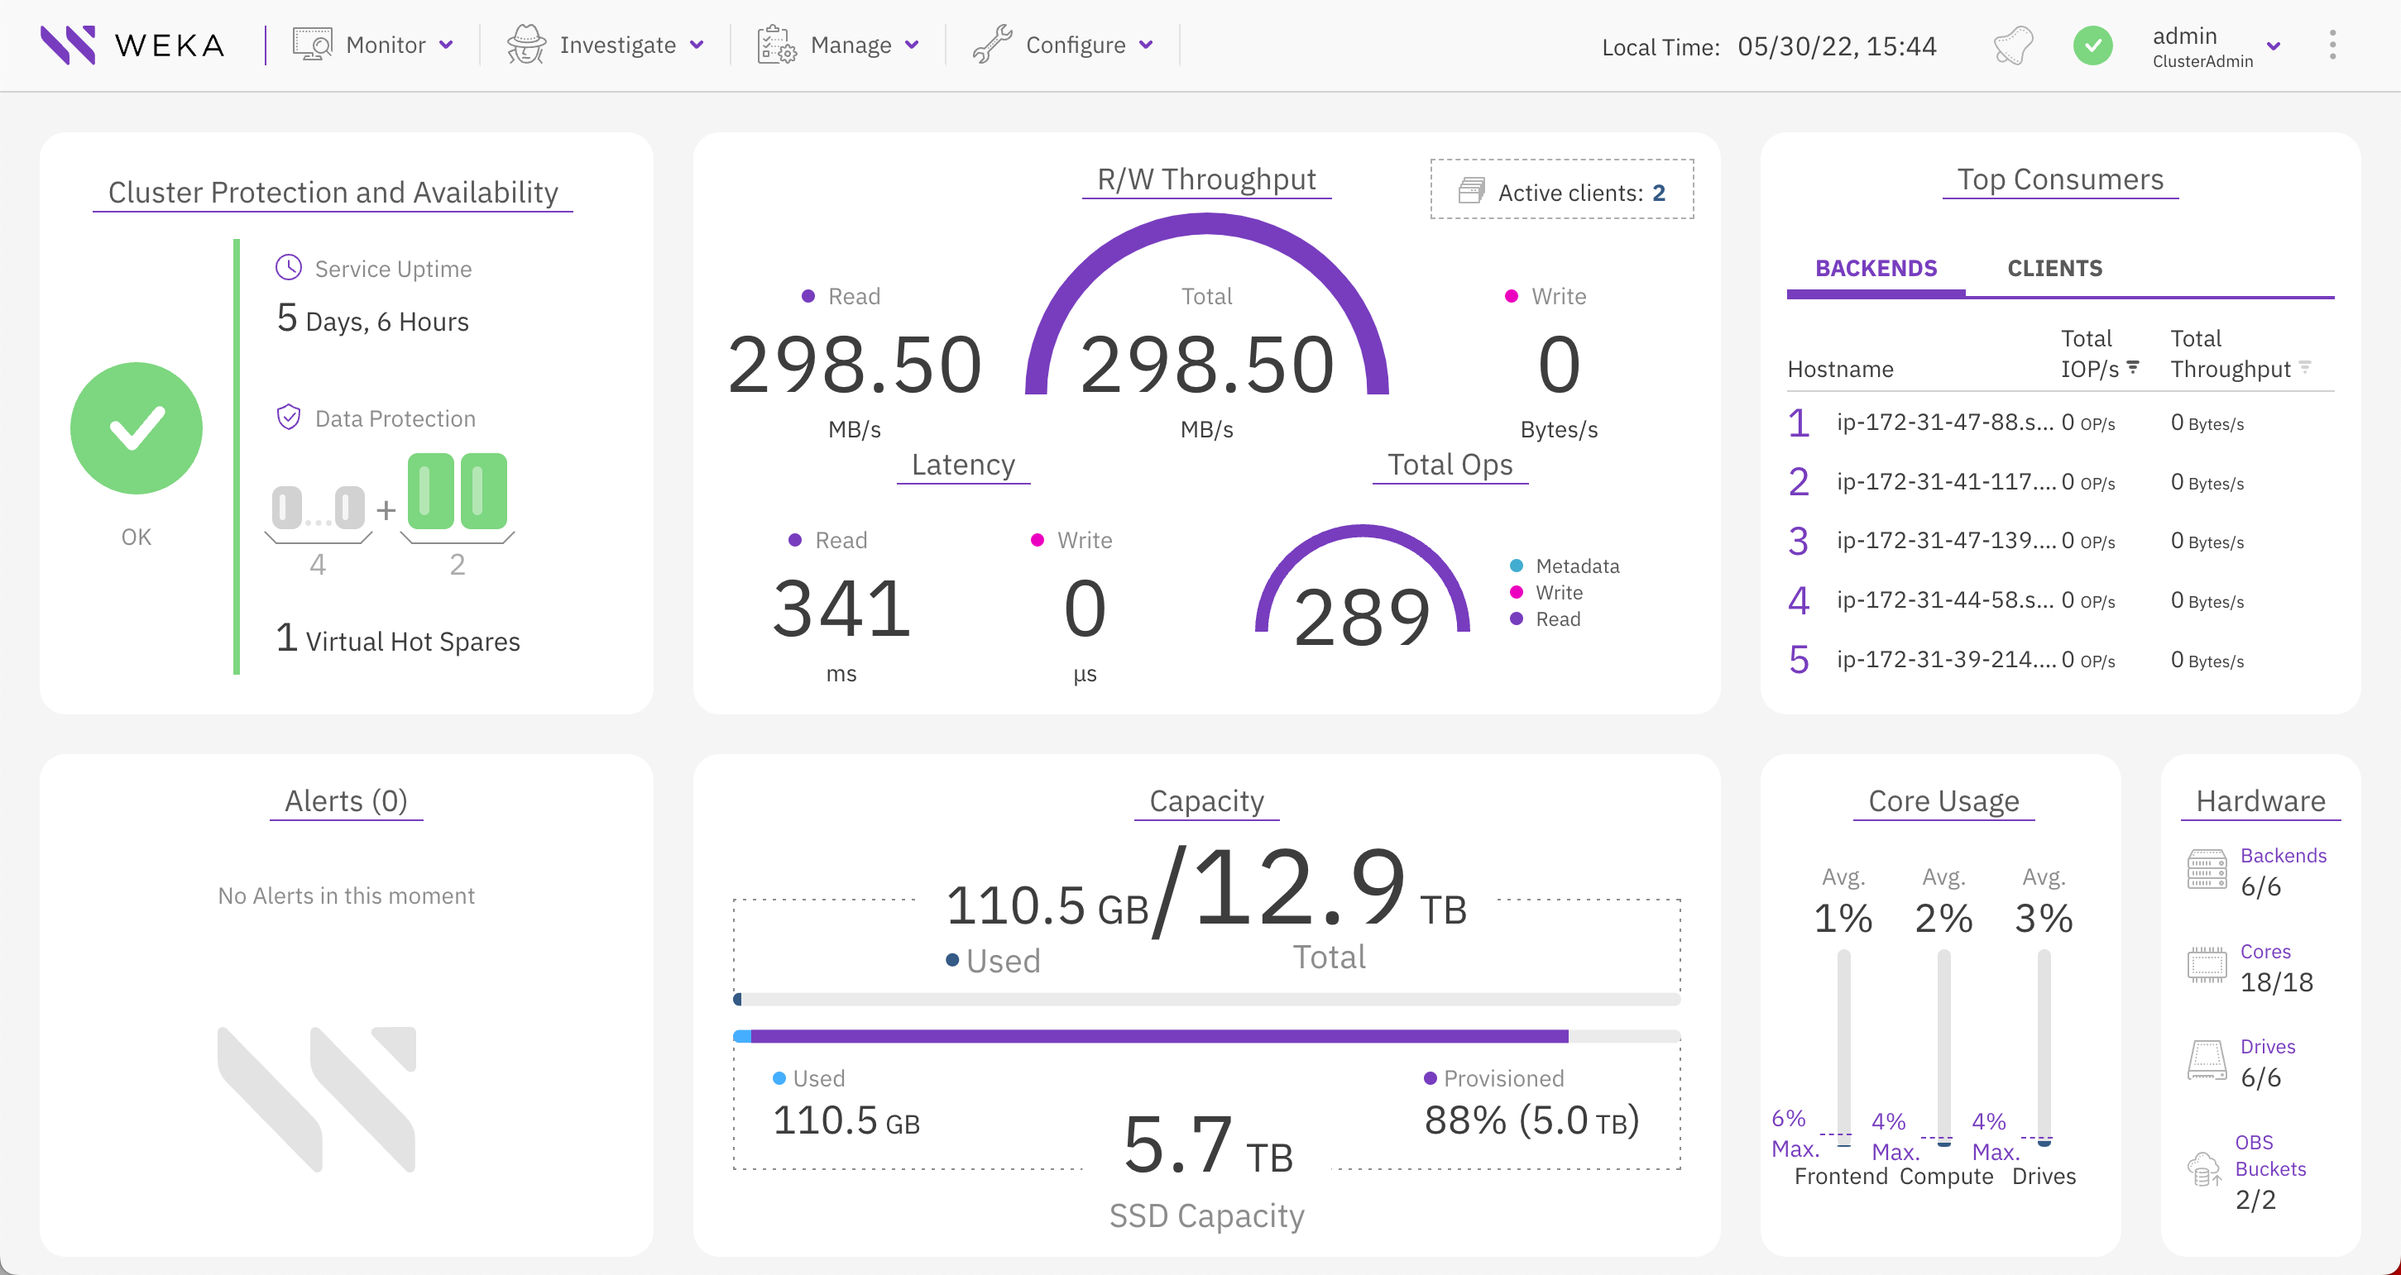
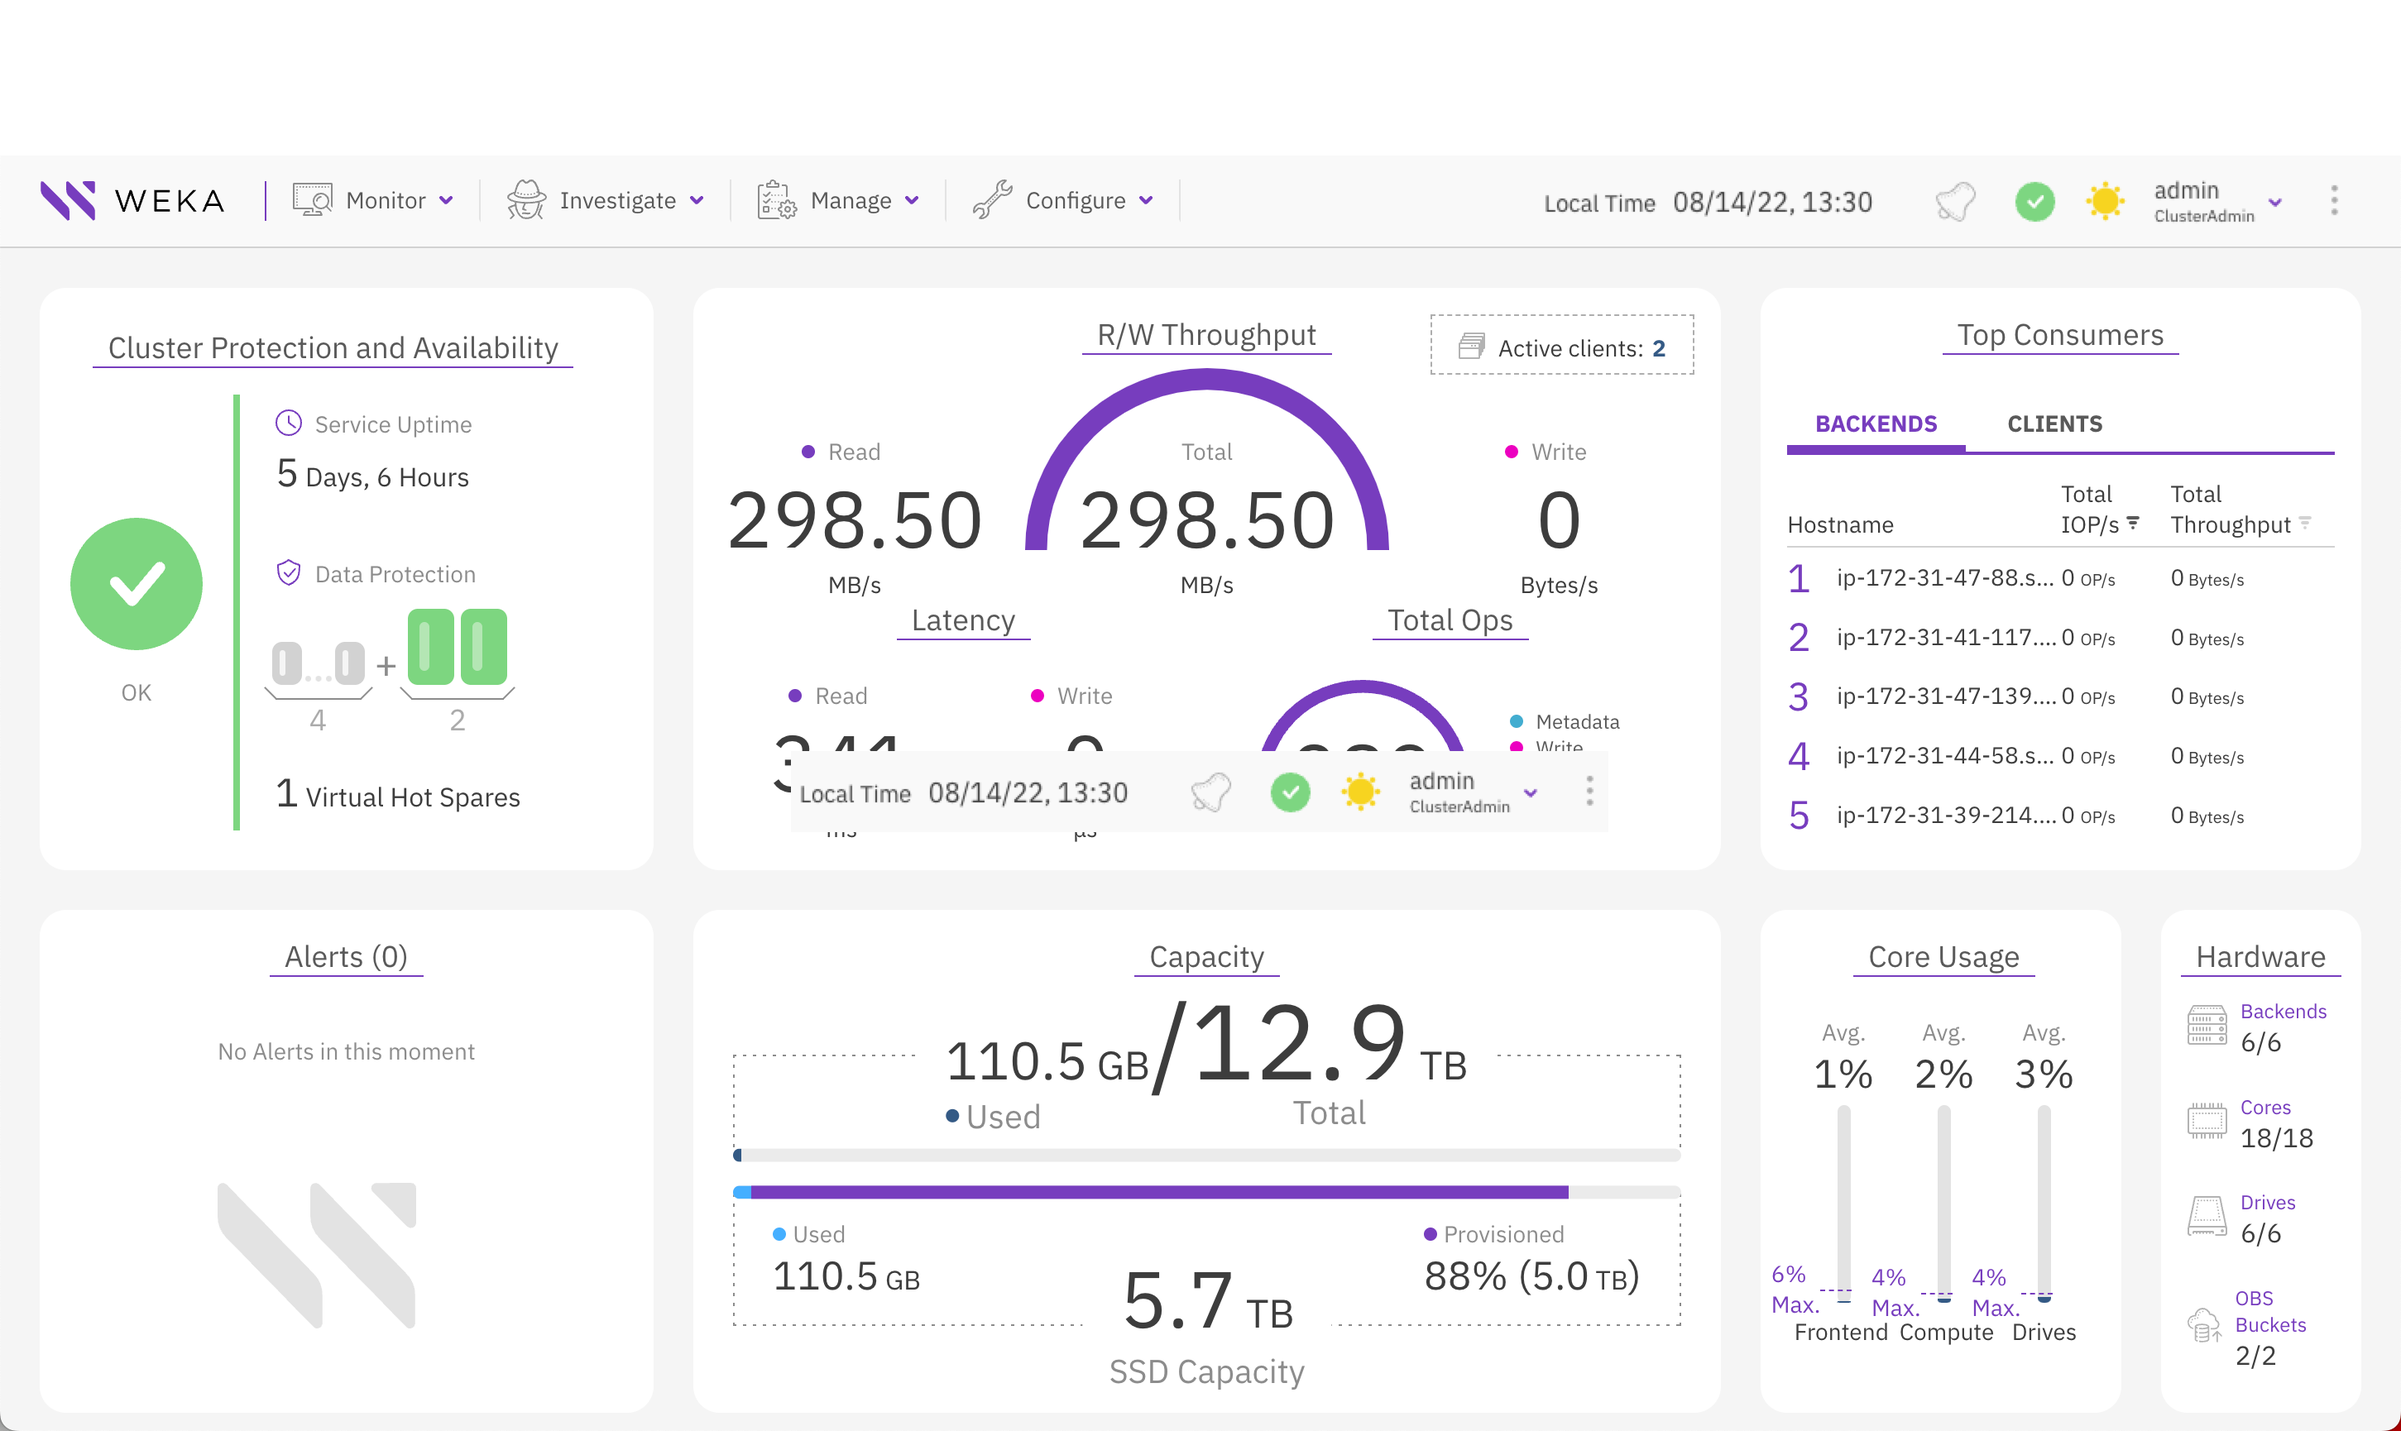
GitBook: [#90] reviewed - ready to merge when 4.0.1 is out - V4.01: Add dark mode

diff --git a/usage/alerts/list-of-alerts.md b/usage/alerts/list-of-alerts.md
@@ -43,7 +43,7 @@ description: >-
 | HighDrivesCapacity                          | The average capacity of the SSDs is too high.                                                                                                                                                                                                                                                                                          | Free-up space on the SSDs or add more SSDs to the cluster. To add SSDs, see [Expansion of specific resources](../expanding-and-shrinking-cluster-resources/expansion-of-specific-resources.md).                                            |
 | HighLevelOfUnreclaimedCapacityInObjectStore | High level of unreclaimed space in object store.                                                                                                                                                                                                                                                                                       | Check object store connectivity and deletion operations' progress. Validate authorization of deletion operations on the object store. Run `weka fs tier capacity` for details.                                                             |
 | JumboConnectivity                           | A host cannot send jumbo frames to any of its cluster peers.                                                                                                                                                                                                                                                                           | Check the host network settings and the switch to which it is connected, even if Weka seems to be functional since this will improve performance.                                                                                          |
-| KmsError                                    | KMS Error                                                                                                                                                                                                                                                                                                                              | Review the KMS credentials, permissions, and configuration, as suggested in [KMS management](../../fs/kms-management/).                                                                                                                    |
+| KmsError                                    | KMS Error                                                                                                                                                                                                                                                                                                                              | Review the KMS credentials, permissions, and configuration, as suggested in [KMS management](../security/kms-management/).                                                                                                                 |
 | LicenseError                                | A license conflict exists.                                                                                                                                                                                                                                                                                                             | Make sure the cluster is using a correct license, the license has not expired, and the cluster allocated space does not exceed the license.                                                                                                |
 | LowDiskSpace                                | The host has low disk space (for `/opt/weka` directory) which can affect some weka reporting services.                                                                                                                                                                                                                                 | Free up space on the host, or contact the Weka Support Team.                                                                                                                                                                               |
 | ManualOverridesActive                       | Manual overrides are active.                                                                                                                                                                                                                                                                                                           | Please contact the Weka Support Team.                                                                                                                                                                                                      |

diff --git a/fs/managing-filesystems/managing-filesystems-1.md b/fs/managing-filesystems/managing-filesystems-1.md
@@ -41,7 +41,7 @@ Use the following command line to add a filesystem:
 | `max-files`              | Number   | Metadata allocation for this filesystem                                                                                                                                         | Must be a valid number             | No                                                                                                                             | Automatically calculated by the system based on the SSD capacity |
 | `encrypted`              | Boolean  | Encryption of filesystem                                                                                                                                                        |                                    | No                                                                                                                             | No                                                               |
 | `obs-name`               | String   | Object store name for tiering                                                                                                                                                   | Must be a valid name               | Mandatory for tiered filesystems                                                                                               |                                                                  |
-| `auth-required`          | String   | Determines if mounting the filesystem requires to be authenticated to Weka ([weka user login](../../usage/security/user-management.md#user-log-in))                             | `yes` or `no`                      | No                                                                                                                             | no                                                               |
+| `auth-required`          | String   | Determines if mounting the filesystem requires to be authenticated to Weka ([weka user login](../../usage/user-management/#user-log-in))                                        | `yes` or `no`                      | No                                                                                                                             | no                                                               |
 
 {% hint style="info" %}
 **Note:** When creating an encrypted filesystem a KMS must be defined.
@@ -78,7 +78,7 @@ Use the following command line to edit an existing filesystem:
 | `thin-provision-min-ssd` | Number   | For [thin-provisioned](../../overview/filesystems.md#thin-provisioning) filesystems, this is the minimum SSD capacity that is ensured to be always available to this filesystem | Minimum of 1GiB                    | Optional      |                |
 | `thin-provision-max-ssd` | Number   | For [thin-proviosined](../../overview/filesystems.md#thin-provisioning) filesystem, this is the maximum SSD capacity the filesystem can consume                                 | Cannot exceed the `total-capacity` | Optional      |                |
 | `max-files`              | Number   | Metadata limit for the filesystem                                                                                                                                               | Must be a valid number             | Optional      | Keep unchanged |
-| `auth-required`          | String   | Determines if mounting the filesystem requires to be authenticated to Weka ([weka user login](../../usage/security/user-management.md#user-log-in))                             | `yes` or `no`                      | No            | no             |
+| `auth-required`          | String   | Determines if mounting the filesystem requires to be authenticated to Weka ([weka user login](../../usage/user-management/#user-log-in))                                        | `yes` or `no`                      | No            | no             |
 
 ## Delete a filesystem
 

diff --git a/getting-started-with-weka/manage-the-system-using-weka-gui.md b/getting-started-with-weka/manage-the-system-using-weka-gui.md
@@ -35,7 +35,7 @@ Weka GUI application supports the following functions:
   * View the frontend, compute, and drive cores usage.
   * View the hardware components (active/total).
 
-![Weka GUI overview](../.gitbook/assets/wmng\_gui\_overview\_mb.gif)
+![Weka GUI overview](<../.gitbook/assets/wmng\_gui\_overview\_mb (1).gif>)
 
 ## Access the Weka GUI
 
@@ -177,6 +177,17 @@ Switching the display time may be required when the customer, Weka support, and 
 2. Depending on the displayed time, select **Switch to System Time** or **Switch to Local Time**.
 
 ![Switch display time](../.gitbook/assets/wmng\_sw\_display\_time.gif)
+
+## Switch the GUI between light and dark modes
+
+You can switch the GUI between light and dark modes according to your preferences. The dark mode is a user interface for content that displays light text on a dark background. The dark mode is beneficial for viewing screens at night. The reduced brightness can reduce eye strain in low light conditions.
+
+**Procedure**
+
+1. On the top bar, depending on the current display mode, point to the **sun** or **moon** symbol.
+2. Select **Switch to light mode** or **Switch to dark mode**.
+
+![Switch the GUI between light and dark modes](../.gitbook/assets/wmng\_sw\_dark\_mode.gif)
 
 ## Display tables
 

diff --git a/install/aws/self-service-portal.md b/install/aws/self-service-portal.md
@@ -122,7 +122,7 @@ The cluster deployment process takes about 10 minutes. During this time, the fol
 4. All client instances are created.
 5. A filesystem is created using all the available capacity and is mounted on all client instances. This shared filesystem is mounted on `/mnt/weka` in each of the cluster instances.
 
-Once the deployment is complete, the CloudFormation stack status will be updated to `CREATE_COMPLETE`. At this point, it is possible to access the Weka system cluster GUI by going to the Outputs tab of the CloudFormation stack and clicking the GUI link (or by [http://\<backend-host>:14000](http://\<backend-host>:14000)).
+Once the deployment is complete, the CloudFormation stack status will be updated to `CREATE_COMPLETE`. At this point, it is possible to access the Weka system cluster GUI by going to the Outputs tab of the CloudFormation stack and clicking the GUI link (or by http://\<backend-host>:14000).
 
 Visit [Managing the Weka System ](broken-reference)for getting started with Weka CLI and GUI, and [Performing the First IO](../../getting-started-with-weka/performing-the-first-io.md) to quickly get familiar with creating, mounting, and writing to a WekaFS filesystem.
 

diff --git a/fs/quota-management.md b/fs/quota-management.md
@@ -10,7 +10,7 @@ description: >-
 
 There are several levels on the Weka system where capacity usage can be restricted.&#x20;
 
-1. On an organization level: Set a different organization to manage its own filesystems, where quotas for an organization can be set, as described in the [organization's usage and quota management ](../usage/security/organizations/#usage-and-quota-management)section.
+1. On an organization level: Set a different organization to manage its own filesystems, where quotas for an organization can be set, as described in the [organization's usage and quota management ](../usage/organizations/#usage-and-quota-management)section.
 2. On a filesystem level: Set a different filesystem per department/project.
 3. On a directory level: Set a different quota per project directory (useful when users are part of several projects) or per user home directory.
 

diff --git a/fs/snap-to-obj/snap-to-obj-1.md b/fs/snap-to-obj/snap-to-obj-1.md
@@ -58,7 +58,7 @@ The `locator` can be a locator saved previously for disaster scenarios, or you c
 {% endhint %}
 
 {% hint style="info" %}
-**Note:** For encrypted filesystem, when downloading, you must use the same KMS master key to decrypt the snapshot data. For more information, see the [KMS Management](../kms-management/#overview) section.
+**Note:** For encrypted filesystem, when downloading, you must use the same KMS master key to decrypt the snapshot data. For more information, see the [KMS Management](../../usage/security/kms-management/#overview) section.
 {% endhint %}
 
 ## Manage incremental snapshots

diff --git a/additional-protocols/s3/README.md b/additional-protocols/s3/README.md
@@ -41,7 +41,7 @@ As an S3 user, you can also create temporary security tokens (STS AssumeRole) or
 
 **Related topics**
 
-****[user-management.md](../../usage/security/user-management.md "mention")****
+****[user-management](../../usage/user-management/ "mention")****
 
 ****[s3-users-and-authentication](s3-users-and-authentication/ "mention")****
 

diff --git a/fs/managing-filesystems/managing-filesystems.md b/fs/managing-filesystems/managing-filesystems.md
@@ -81,7 +81,7 @@ When creating a Weka system in AWS using the cloud formation, the Weka system co
 
 ****[managing-object-stores](../managing-object-stores/ "mention")****
 
-[kms-management](../kms-management/ "mention")
+[kms-management](../../usage/security/kms-management/ "mention")
 
 ## Edit a filesystem
 

diff --git a/additional-protocols/s3/s3-users-and-authentication/README.md b/additional-protocols/s3/s3-users-and-authentication/README.md
@@ -22,7 +22,7 @@ Use `--posix-uid` and `--posix-gid` flags for a local user with an S3 user role.
 
 **Related topics**
 
-[#create-users](../../../usage/security/user-management.md#create-users "mention")
+[#create-users](../../../usage/user-management/#create-users "mention")
 
 ## IAM policy
 

diff --git a/overview/filesystems.md b/overview/filesystems.md
@@ -46,7 +46,7 @@ To create encrypted filesystems, deploy a Key Management System (KMS).
 
 **Related topics**
 
-[kms-management](../fs/kms-management/ "mention")
+[kms-management](../usage/security/kms-management/ "mention")
 
 ### Metadata limitations
 
